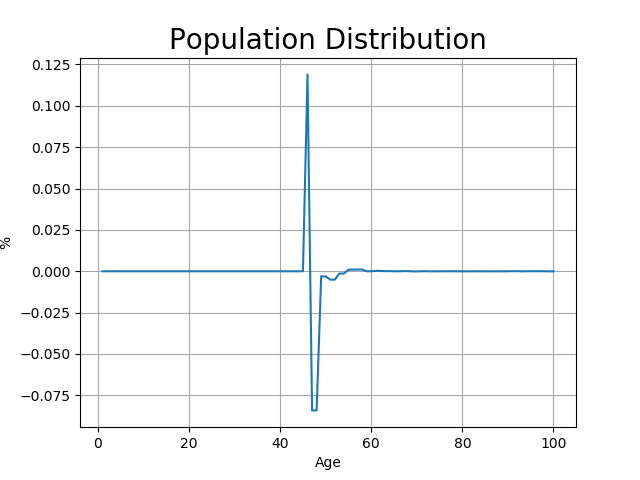
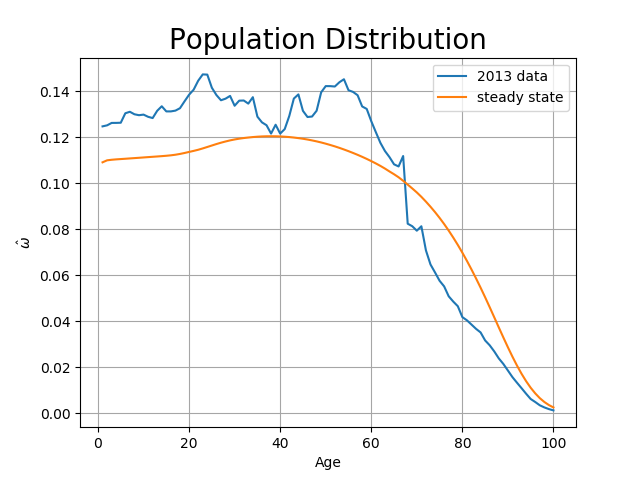
question about population growth rate

diff --git a/Students/Fiona/PS7/demographics.py b/Students/Fiona/PS7/demographics.py
@@ -168,11 +168,11 @@ def get_imm_resid (tot_per, graph, filename = pop_file_name):
         plt.close()
     return imm_tp
 
-def get_omega_stable(E,S, graph, filename = pop_file_name):
+def get_omega_stable(E,S,T, graph, filename = pop_file_name):
     tot_per = E+S
     mort_rates, infmort_rate = get_mort(tot_per, False)
     fert_rates = get_fert(tot_per, False)
-    print(fert_rates.sum())
+    # print(fert_rates.sum())
     imm_rates = get_imm_resid(tot_per, False)
     df = pd.read_csv(filename)
     pop_12 = np.array([float(''.join(x.split(','))) for x in df['2012'][:-1]])
@@ -180,15 +180,21 @@ def get_omega_stable(E,S, graph, filename = pop_file_name):
     #0.72%, consistent with 0.7% in 2016, by Google
     gn_stable = pop_13.sum()/pop_12.sum() -1
 
-    om_mat = (1-mort_rates) * np.eye(tot_per,k=-1)
-    om_mat += imm_rates * np.eye(tot_per)
-    om_mat[0,:] += (1-infmort_rate)*fert_rates[:]
-    print (om_mat[0,:].sum())
-    w, v = LA.eig(om_mat)
-    print(f"The closest eigenvalue to 1+g is: {w[np.abs(w - (1+gn_stable)).argmin()]}")
-    omega_stable = v[np.abs(w - (1+gn_stable)).argmin()]
-    print (omega_stable.shape)
-    age_tot = np.arange(1,tot_per+1)
+
+
+    omega_stable, om_mat, gn_r = solve_mat (infmort_rate, mort_rates,fert_rates, imm_rates,gn_stable,tot_per)
+
+    age_tot = np.arange(1,E+S+1)
+    omega_2013 = pop_13/pop_13.sum() *10
+    mat = np.tile(omega_stable[:S].reshape(S,1),T+S-2)
+    mat [:,0] = omega_2013[:S]
+    print (mat[:,1].shape)
+    print (om_mat[:S,:S].shape)
+    print ((om_mat[:S,:S].dot(mat[:,1])).shape)
+    print(gn_r)
+    for i in range (1, S+1):
+        mat[:,i] = 1/(1+gn_r) * (om_mat[:S,:S].dot(mat[:,i-1]))
+     
 
     if graph:
         cur_path = os.path.split(os.path.abspath(__file__))[0]
@@ -199,19 +205,47 @@ def get_omega_stable(E,S, graph, filename = pop_file_name):
 
         fig, ax = plt.subplots()
         # 'r-',
-        ax.plot(age_tot, omega_stable)
+        ax.plot(age_tot[E:tot_per+1], mat[:,0], label='t=1')
+        ax.plot(age_tot[E:tot_per], mat[:,9], label='t=10')
+        ax.plot(age_tot[E:tot_per], mat[:,29], label='t=30')
+        ax.plot(age_tot[E:tot_per], mat[:,T-1], label=f't={S+T}')
         #     plt.plot(x_vec, y_vec)
         plt.title(f'Population Distribution', fontsize=20)
         plt.grid(b=True, which='major', color='0.65', linestyle='-')
         plt.xlabel('Age')
-        plt.ylabel('%')
-        # plt.legend()
+        plt.ylabel(r'$\hat{\omega}$')
+        plt.legend()
+        # plt.show()
+        output_path = os.path.join(output_dir, f'population_dist_times')
+        plt.savefig(output_path)
+        plt.close()
+
+        fig, ax = plt.subplots()
+        # 'r-',
+        ax.plot(age_tot, omega_2013, label='2013 data')
+        ax.plot(age_tot, omega_stable, label='steady state')
+        #     plt.plot(x_vec, y_vec)
+        plt.title(f'Population Distribution', fontsize=20)
+        plt.grid(b=True, which='major', color='0.65', linestyle='-')
+        plt.xlabel('Age')
+        plt.ylabel(r'$\hat{\omega}$')
+        plt.legend()
         # plt.show()
         output_path = os.path.join(output_dir, f'population_dist')
         plt.savefig(output_path)
         plt.close()
 
-
+def solve_mat (infmort_rate, mort_rates,fert_rates, imm_rates,gn_stable,tot_per):
+    om_mat = (1 - mort_rates) * np.eye(tot_per, k=-1)
+    om_mat += imm_rates * np.eye(tot_per)
+    om_mat[0, :] += (1 - infmort_rate) * fert_rates[:]
+    e_values, e_vectors = LA.eig(om_mat)
+    e_values_2 = e_values[e_values.real>1]
+    e_vectors_2 = e_vectors[:, e_values.real>1]
+    ind = np.abs(e_values_2.real - (1 + gn_stable)).argmin()
+    omega = e_vectors_2[:, ind].real
+    gn_r = e_values_2[ind]-1
+    return omega, om_mat, gn_r.real
 
 # get_fert(80, True)
 # get_fert(20, True)
@@ -223,5 +257,5 @@ def get_omega_stable(E,S, graph, filename = pop_file_name):
 # print (mort_rates.shape)
 
 # get_imm_resid (20, True)
-get_omega_stable(20,80,True)
+get_omega_stable(20,80, 5,True)
 # print (gn_stable)
